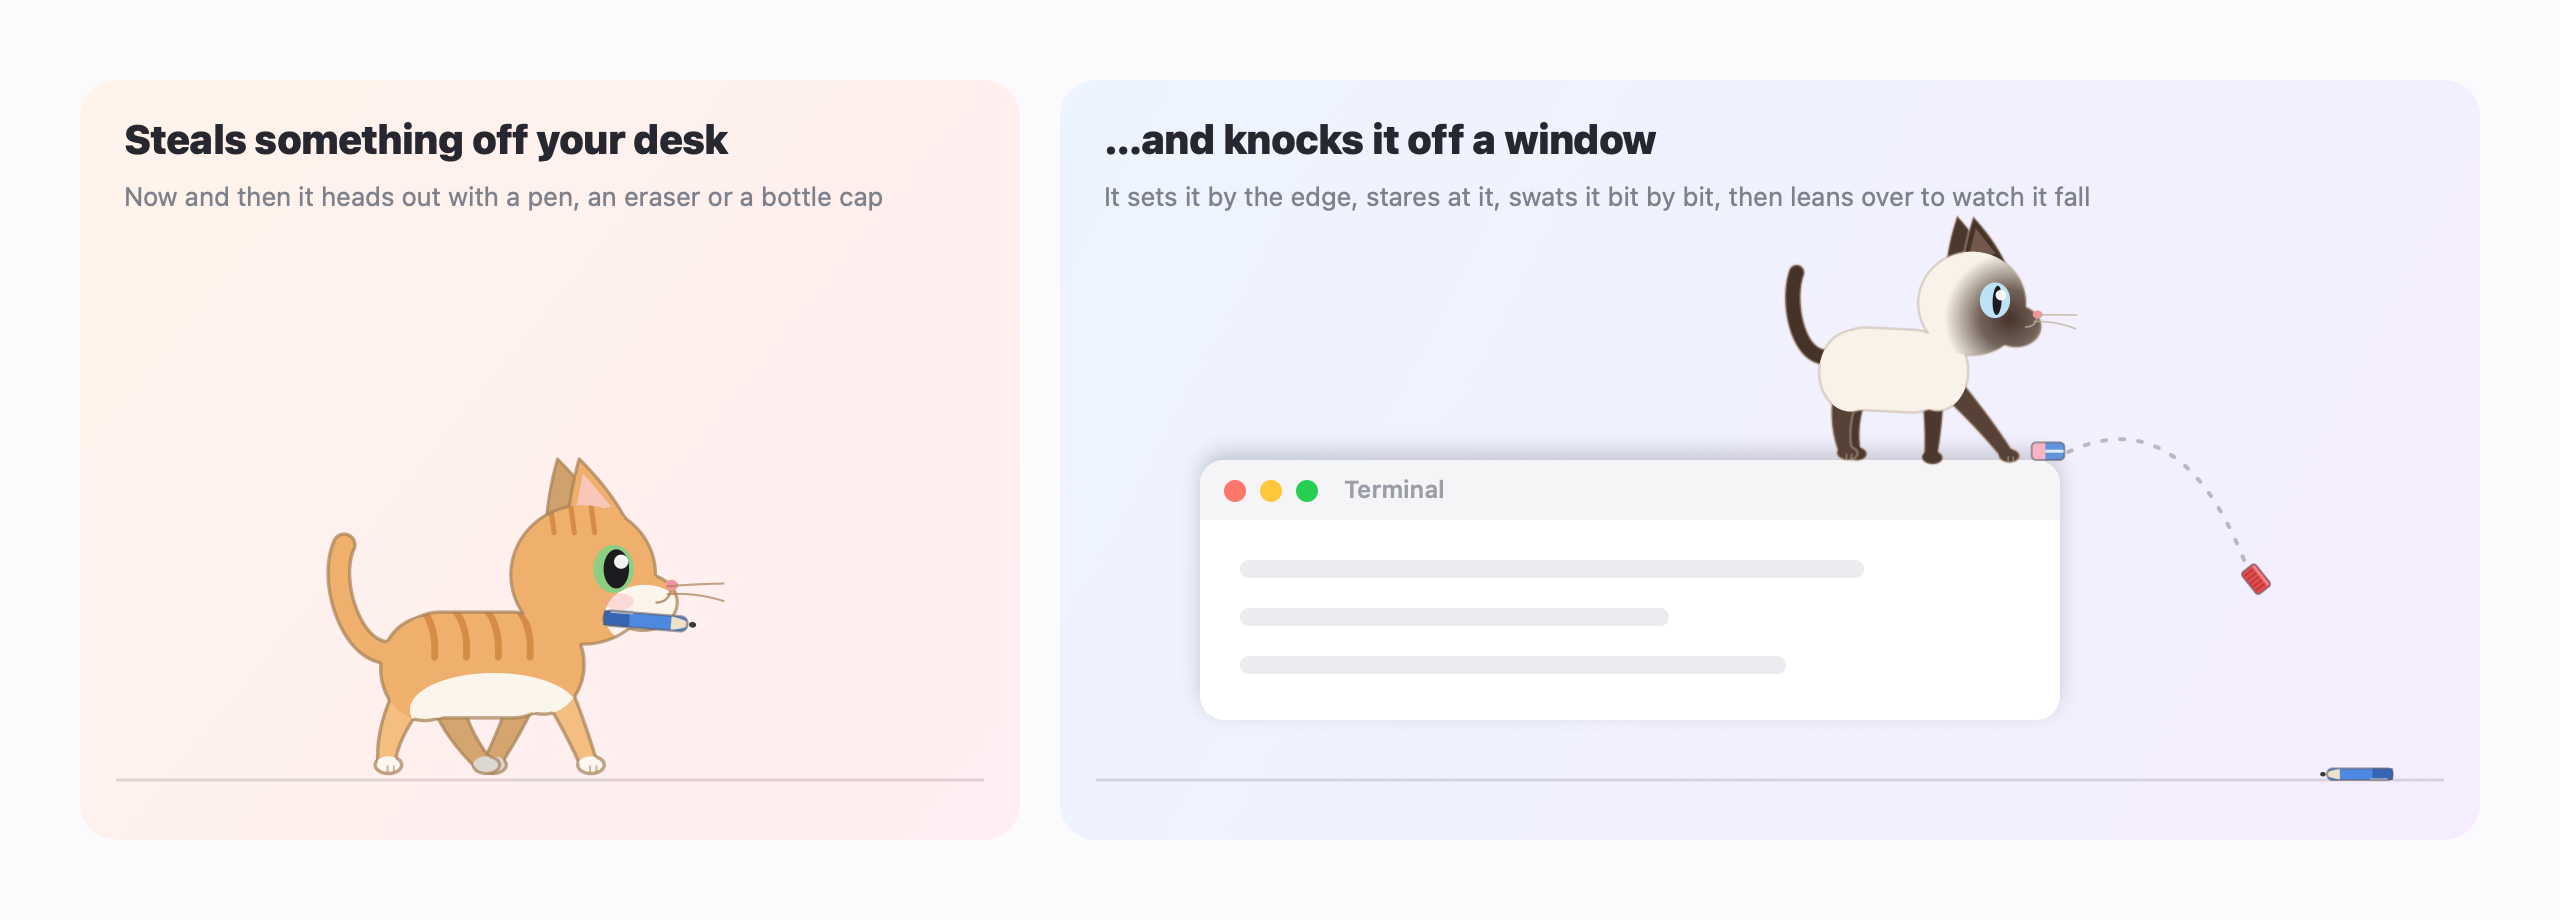
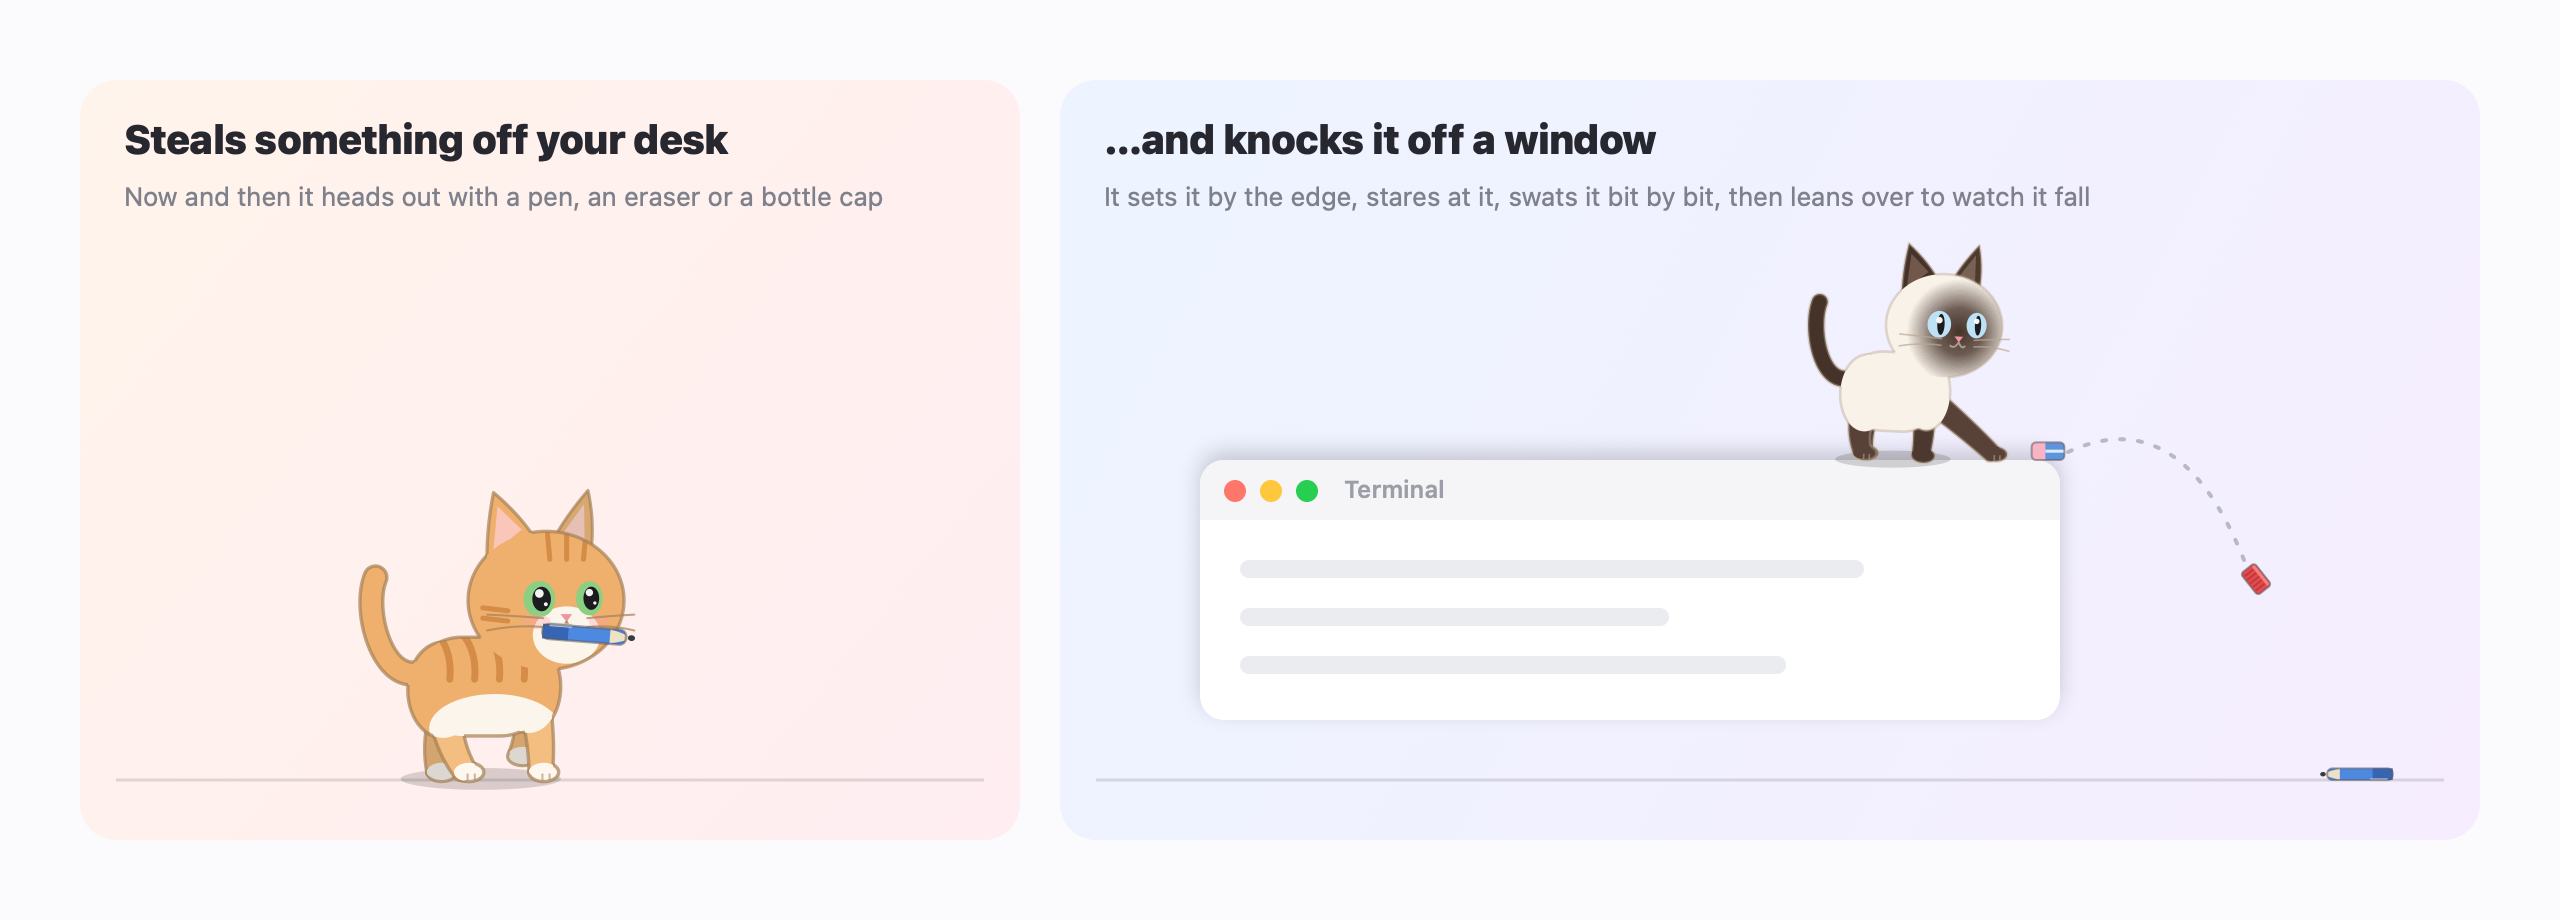
docs(readme): describe the chibi roaming redesign and re-render roaming art
- Replace the cheetah rotary-gallop description with the new 3/4-view
  chibi: planted four-beat walk, bouncy sprint, skid stop, smooth turns
- Redraw the run storyboard (walk / sprint / skid / turn) and re-render
  the roaming, cursor play, sign, knock-off and snow art with the new cat
- Credit LuoYangcan for the roaming redesign

Changed region(s): [[0.125, 0.487, 0.2812, 0.8826], [0.6875, 0.2435, 0.8125, 0.5174]]

diff --git a/Sources/ShowcaseArt.swift b/Sources/ShowcaseArt.swift
@@ -556,10 +556,10 @@ enum ShowcaseArt {
         PetLibrary.shared.select(PetLibrary.shared.pet(id: "orange-tabby"))
         ctx.setFillColor(rgb(0xFAFAFC).cgColor)
         ctx.fill(CGRect(x: 0, y: 0, width: width, height: height))
-        text(english ? "Gallops like a cheetah" : "像猎豹一样飞奔", at: CGPoint(x: 40, y: 26), size: 26, weight: .heavy,
+        text(english ? "A bouncy chibi on the move" : "Q 版小猫满屏跑", at: CGPoint(x: 40, y: 26), size: 26, weight: .heavy,
              color: rgb(0x1D1D24), in: ctx)
-        text(english ? "A rotary gallop with a flexing spine and two flight phases — head level, tail streaming back"
-                     : "旋转式飞奔：脊柱一伸一弓、两次腾空，头保持水平，尾巴往后拉直当平衡杆",
+        text(english ? "Planted four-beat walk, a bouncy sprint with ears pinned back, a skidding stop and smooth turns"
+                     : "3/4 侧脸大头：走路四拍脚掌贴地，跑起来轻快大跳、耳朵往后压，到地方压低身子急刹，转身顺滑过渡",
              at: CGPoint(x: 40, y: 64), size: 14, weight: .regular, color: rgb(0x6B6E78), in: ctx)
         let card = CGRect(x: 40, y: 98, width: width - 80, height: 212)
         fillGradient(card, radius: 18, colors: (rgb(0xFDF1E2), rgb(0xF6E3EE)), in: ctx)
@@ -568,27 +568,43 @@ enum ShowcaseArt {
         ctx.setLineWidth(1.5)
         ctx.move(to: CGPoint(x: card.minX + 20, y: ground)); ctx.addLine(to: CGPoint(x: card.maxX - 20, y: ground))
         ctx.strokePath()
-        let frames = 6
-        let step = (card.width - 40) / CGFloat(frames)
-        for i in 0..<frames {
+        // 分镜：走 → 飞奔三帧 → 急刹两帧 → 转身
+        typealias Frame = (pose: CatRenderer.WalkerPose, label: String?)
+        let frames: [Frame] = [
+            (.init(pose: .walk, phase: .pi / 2, facing: 1, air: 0, time: 0.3, blink: false, runBlend: 0, moveBlend: 1),
+             english ? "walk" : "走：脚掌贴地"),
+            (.init(pose: .run, phase: 0, facing: 1, air: 0, time: 0.3, blink: false, runBlend: 1, moveBlend: 1), nil),
+            (.init(pose: .run, phase: 2 * .pi / 3, facing: 1, air: 0, time: 0.3, blink: false,
+                   runBlend: 1, moveBlend: 1),
+             english ? "bouncy sprint" : "飞奔：轻快大跳"),
+            (.init(pose: .run, phase: 4 * .pi / 3, facing: 1, air: 0, time: 0.3, blink: false,
+                   runBlend: 1, moveBlend: 1), nil),
+            (.init(pose: .land, phase: 0, facing: 1, air: 0, time: 0.3, blink: false,
+                   landProgress: 0.25, skidding: true),
+             english ? "skid stop" : "急刹：扬起小烟团"),
+            (.init(pose: .land, phase: 0, facing: 1, air: 0, time: 0.3, blink: false,
+                   landProgress: 0.65, skidding: true), nil),
+            (.init(pose: .walk, phase: .pi / 2, facing: -1, air: 0, time: 0.3, blink: false,
+                   moveBlend: 1, turnScale: -0.45),
+             english ? "turn" : "转身")
+        ]
+        let step = (card.width - 40) / CGFloat(frames.count)
+        for (i, frame) in frames.enumerated() {
             let feet = CGPoint(x: card.minX + 20 + step * (CGFloat(i) + 0.5), y: ground)
-            let pose = CatRenderer.WalkerPose(pose: .run, phase: CGFloat(i) / CGFloat(frames) * 2 * .pi, facing: 1,
-                                              air: 0, time: 0.3, blink: false)
             ctx.saveGState()
             ctx.translateBy(x: feet.x - CatRenderer.walkerFeet.x * 0.9, y: feet.y - CatRenderer.walkerFeet.y * 0.9)
             ctx.scaleBy(x: 0.9, y: 0.9)
-            CatRenderer.drawWalker(in: ctx, pose: pose)
+            CatRenderer.drawWalker(in: ctx, pose: frame.pose)
             ctx.restoreGState()
-            let label: String? = i == 0 ? (english ? "extended flight" : "伸展腾空")
-                : (i == 3 ? (english ? "gathered flight" : "收拢腾空") : nil)
-            if let label {
+            if let label = frame.label {
                 let font = NSFont.systemFont(ofSize: 13, weight: .semibold)
                 let w = (label as NSString).size(withAttributes: [.font: font]).width + 20
                 let r = CGRect(x: feet.x - w / 2, y: ground + 12, width: w, height: 24)
                 ctx.setFillColor(NSColor(calibratedWhite: 1, alpha: 0.95).cgColor)
                 ctx.addPath(CGPath(roundedRect: r, cornerWidth: 12, cornerHeight: 12, transform: nil))
                 ctx.fillPath()
-                text(label, at: CGPoint(x: r.minX + 10, y: r.minY + 4), size: 13, weight: .semibold, color: rgb(0x33343C), in: ctx)
+                text(label, at: CGPoint(x: r.minX + 10, y: r.minY + 4), size: 13, weight: .semibold,
+                     color: rgb(0x33343C), in: ctx)
             }
         }
         return ctx.makeImage()

diff --git a/README.en.md b/README.en.md
@@ -13,6 +13,7 @@ A little cat that lives in the corner of your Mac desktop. It types along with y
 > 🙏 **Credits**: CoolCat is a heavily modified fork of **[chanke17/KuroCat](https://github.com/chanke17/KuroCat)**.
 > The full-state keyboard/mouse capture, 2.5D head tracking, four coat skins and the whole procedural CoreGraphics renderer come from the original project — huge thanks to [@chanke17](https://github.com/chanke17)!
 > The original is MIT licensed; this repository stays MIT and keeps the original copyright notice in [LICENSE](LICENSE).
+> The chibi redesign of the roaming cat (3/4 view, bouncy sprint, skid stops and smooth turns) is by [LuoYangcan](https://github.com/LuoYangcan) — thank you!
 
 ## ✨ Features
 
@@ -21,7 +22,7 @@ A little cat that lives in the corner of your Mac desktop. It types along with y
 </p>
 
 - 🎧 **Dances to your music** — headphones on when a music player is playing, a vertical LED spectrum wall behind the cat, real beat tracking via a system audio tap (macOS 14.2+) aligned to your output latency, with tap-along calibration. Moves hit the beat and accent the downbeat ([more](#-hitting-the-beat)). Strong beats get head-bobs, calm songs get slow sways. While music plays it stays at the keyboard instead of wandering off.
-- 🐾 **Roams your whole screen** — when you're idle it hops off the keyboard, gallops around like a cheetah, treats window tops like tables to jump between (climbing the frame when they're too high), chases your cursor, knocks your pen off a window, peeks from screen edges, curls up for naps, and runs back as soon as you type ([more](#-roaming)).
+- 🐾 **Roams your whole screen** — when you're idle it hops off the keyboard, sprints around as a bouncy chibi, treats window tops like tables to jump between (climbing the frame when they're too high), chases your cursor, knocks your pen off a window, peeks from screen edges, curls up for naps, and runs back as soon as you type ([more](#-roaming)).
 - 🤖 **Claude Code integration** — one-click hooks; a bubble shows *project · action · elapsed* per session, the cat waves when a session needs your approval — and if you're looking at another window, [holds up a sign](#-agent-sign) on it — and throws confetti when it is done.
 - ⌨ **Codex integration** — one-click hooks in `~/.codex/hooks.json` (trust them once via `/hooks` in Codex); Codex sessions share the bubble with Claude Code, marked by a blue spinner.
 - 🎙 **Meeting mode** — headset when the mic is on, a "shh" when you type too loudly, a quick face wash before the camera turns on.
@@ -57,10 +58,10 @@ After 30 seconds without typing the cat leaves its keyboard and wanders around i
 
 - **Peeking** — it hides past the bottom or side edge of the screen with only its head and two paws showing, clipped so it never spills onto another display.
 - **Naps** — it curls up into a ball (high window tops are its favourite), breathing slowly with floating Zzz. The longer you're idle, the sleepier it gets.
-- **Gallops like a cheetah** — running is a rotary gallop with a flexing spine and two flight phases per stride, head level and tail streaming back; every now and then it gets the zoomies and sprints off, braking with a crouch when it arrives.
+- **A bouncy chibi on the move** — while roaming it's a 3/4-view chibi with a big head, two big eyes, a pink nose and an ω mouth. It walks with a planted four-beat gait (no foot sliding) and sprints in light leaps two or three times a second, ears pinned back, head steady, an S-shaped tail streaming behind and a little dust and speed lines. Now and then it gets the zoomies, then skids to a crouching stop with squinting eyes and a puff of dust (stopping dead instead when it's about to jump, hold up a sign or set something down). Turns are smooth, it crouches before a jump, squashes on landing, and a soft shadow follows its feet.
 
 <p align="center">
-  <img src="assets/coolcat/gallop.en.png" alt="Gallop cycle: extended and gathered flight" />
+  <img src="assets/coolcat/gallop.en.png" alt="Chibi cat: walk, sprint, skid stop and turn" />
 </p>
 
 - **Comes back when needed** — typing sends it running home (a napping cat wakes with a start); it stays home during meetings or snacks, sticks to the keyboard dancing along while music plays (and gallops back if a song starts mid-walk), and comes back to remind you when Claude Code / Codex is waiting for your approval (or, if you're busy in another window, runs over and [holds up a sign](#-agent-sign)). After 10 minutes away from the keyboard it stops wandering and naps at its seat.

diff --git a/README.md b/README.md
@@ -13,6 +13,7 @@
 > 🙏 **致谢**：CoolCat 基于 **[chanke17/KuroCat](https://github.com/chanke17/KuroCat)** 魔改而来。
 > 键盘鼠标全状态捕获、2.5D 球面头部追踪、四种毛色和整套 CoreGraphics 程序化绘制，这些地基都来自原作者，非常感谢 [@chanke17](https://github.com/chanke17) 的开源！
 > 原项目以 MIT 协议开源，本仓库沿用 MIT，并在 [LICENSE](LICENSE) 中保留原作者的版权声明。
+> 漫游小猫的 Q 版重绘（3/4 侧脸大头、轻快飞奔、急刹和转身过渡）来自 [LuoYangcan](https://github.com/LuoYangcan)，谢谢！
 
 ## ✨ 特色功能
 
@@ -23,7 +24,7 @@
 | | 功能 | 说明 |
 |---|---|---|
 | 🎧 | **跟着鼓点跳舞** | 音乐播放器一出声就戴上耳机；猫身后立起一面 LED 频谱墙。用系统音频 tap（macOS 14.2+）实时检测鼓点，舞步按输出设备延迟对齐到你听到的拍子，还能跟拍校准。动作卡在拍点上，小节第一拍更重；强节奏多点头，舒缓的歌慢慢摇。放歌时它不出去溜达，守在键盘前陪你听。详见[下文](#-卡点与节拍校准)。 |
-| 🐾 | **满屏漫游** | 闲下来就跳下键盘满屏溜达：像猎豹一样飞奔，把窗口顶当桌子跳来跳去、太高就顺着窗框爬上去，追着你的光标扑，叼走你桌上的笔推下窗口，躲在屏幕边只露脑袋偷看，找个地方蜷成一团打盹；你一打字就跑回来。详见[下文](#-满屏漫游)。 |
+| 🐾 | **满屏漫游** | 闲下来就跳下键盘满屏溜达：Q 版小猫轻快飞奔、到地方急刹，把窗口顶当桌子跳来跳去、太高就顺着窗框爬上去，追着你的光标扑，叼走你桌上的笔推下窗口，躲在屏幕边只露脑袋偷看，找个地方蜷成一团打盹；你一打字就跑回来。详见[下文](#-满屏漫游)。 |
 | 🤖 | **Claude Code 联动** | 一键写入 hook。气泡逐会话显示「项目 · 动作 · 耗时」，多个会话同时在忙也分得清；等你批准时举爪挥手，你没注意到就跑去你正在看的窗口上[举牌](#-举牌提醒)，任务完成撒彩带。 |
 | ⌨ | **Codex 联动** | 一键写入 `~/.codex/hooks.json`（在 Codex 里 `/hooks` 信任后生效）。和 Claude Code 共用一个气泡：Codex 会话用蓝色转圈标出，等你批准、按 Esc 打断、完成都能同步。 |
 | 🎙 | **会议模式** | 开麦自动戴耳麦，开麦时打字太猛会「嘘」你，开摄像头前先洗把脸。 |
@@ -60,10 +61,10 @@
 
 - **边上偷看**：躲到屏幕底边或侧边外面，只露出脑袋和两只扒着边的爪子，东张西望。多屏时不会画到隔壁屏幕上。
 - **蜷成一团打盹**：找个地方趴下慢慢蜷起来，最爱窗口顶上的高处，睡着时会呼吸起伏、冒 Zzz。闲得越久越容易犯困。
-- **像猎豹一样飞奔**：跑起来是旋转式飞奔，脊柱一伸一弓、一个步幅里两次腾空，头保持水平、尾巴往后拉直当平衡杆；溜达时还会突然发疯狂奔一段，跑到地方压低身子急刹。
+- **Q 版小猫满屏跑**：漫游时是 3/4 侧脸的 Q 版大头小猫，两只大眼睛、粉鼻子、ω 嘴。走路是四拍步态，脚掌贴地不打滑；跑起来一秒两三次轻快大跳，耳朵往后压、头稳稳平视，身后拖着 S 形小尾巴，还有一点烟尘和速度线。溜达时会突然发疯狂奔一段，跑到地方压低身子急刹、眯起眼扬起一小团烟（要在那儿起跳、举牌、放东西时就原地刹住）。转身是顺滑过渡，起跳前蹲下蓄力，落地时压扁一下，脚下一直跟着一团影子。
 
 <p align="center">
-  <img src="assets/coolcat/gallop.png" alt="飞奔分解：伸展腾空、收拢腾空" />
+  <img src="assets/coolcat/gallop.png" alt="Q 版小猫：走、飞奔、急刹、转身" />
 </p>
 
 - **随叫随回**：你一打字它就跑回键盘，睡着的会一激灵醒来再跑；开会、吃小鱼干时不出门；放歌时守在键盘前跟着节奏摇，正在外面溜达的听到音乐也会飞奔回来跳舞；Claude Code / Codex 在等你批准时会跑回来提醒你（你在看别的窗口时改成跑过去[举牌](#-举牌提醒)）。离开超过 10 分钟就不再出门，安心在座位上睡觉。
